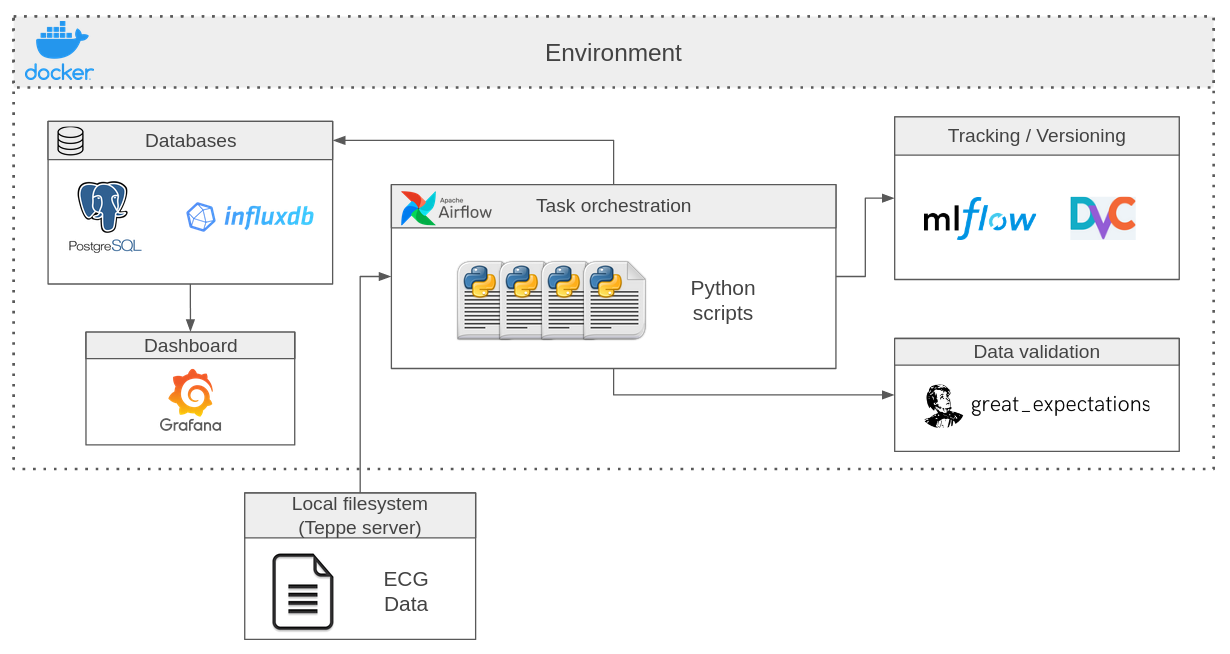
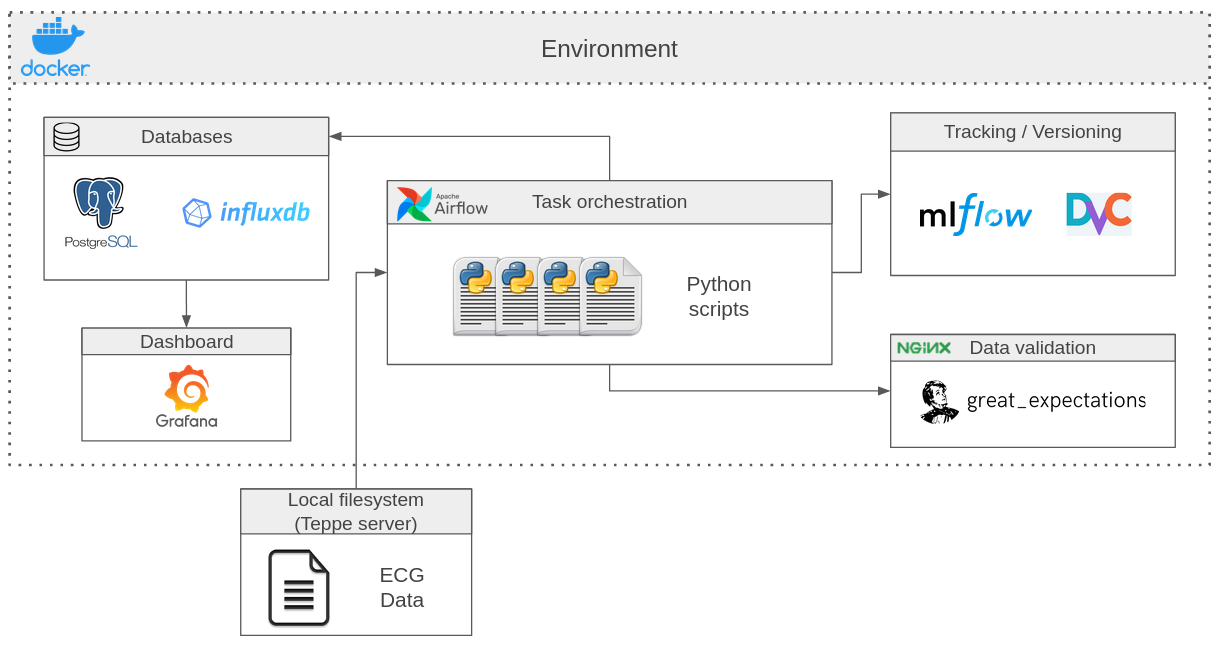
update readme

diff --git a/README.md b/README.md
@@ -24,6 +24,9 @@ The pipeline requires these packages to run :
 * biosppy == 0.7.3
 * hrv-analysis == 1.0.4
 * ecg-qc== ???
+* great-expectations == 0.13.25
+* airflow-provider-great-expectations == 0.0.7
+* psycopg2-binary == 2.8.6
 
 You can install them in a virtual environment on your machine via the command : 
 ```sh
@@ -50,8 +53,7 @@ After cloning this repository, you can run these commands :
 |Airflow|8080|
 |Grafana|3000|
 |MLFlow|5000|
-|DVC|???|
-|Great expectations|???|
+|Great expectations (via NGINX)|8082|
 
 
 
@@ -60,8 +62,7 @@ Once the services are up, you can interact with their UI :
 * **Airflow** : [http://localhost:8080](http://localhost:8080)
 * **Grafana** : [http://localhost:3000](http://localhost:3000)
 * **MLFlow** : [http://localhost:5000](http://localhost:5000)
-* **DVC** : [http://localhost:???](http://localhost:???)
-* **Great expectations** : [http://localhost:???](http://localhost:???)
+* **Great expectations** : [http://localhost:8082](http://localhost:8082)
 
 When required, usernames and passwords are *admin*. 
 
